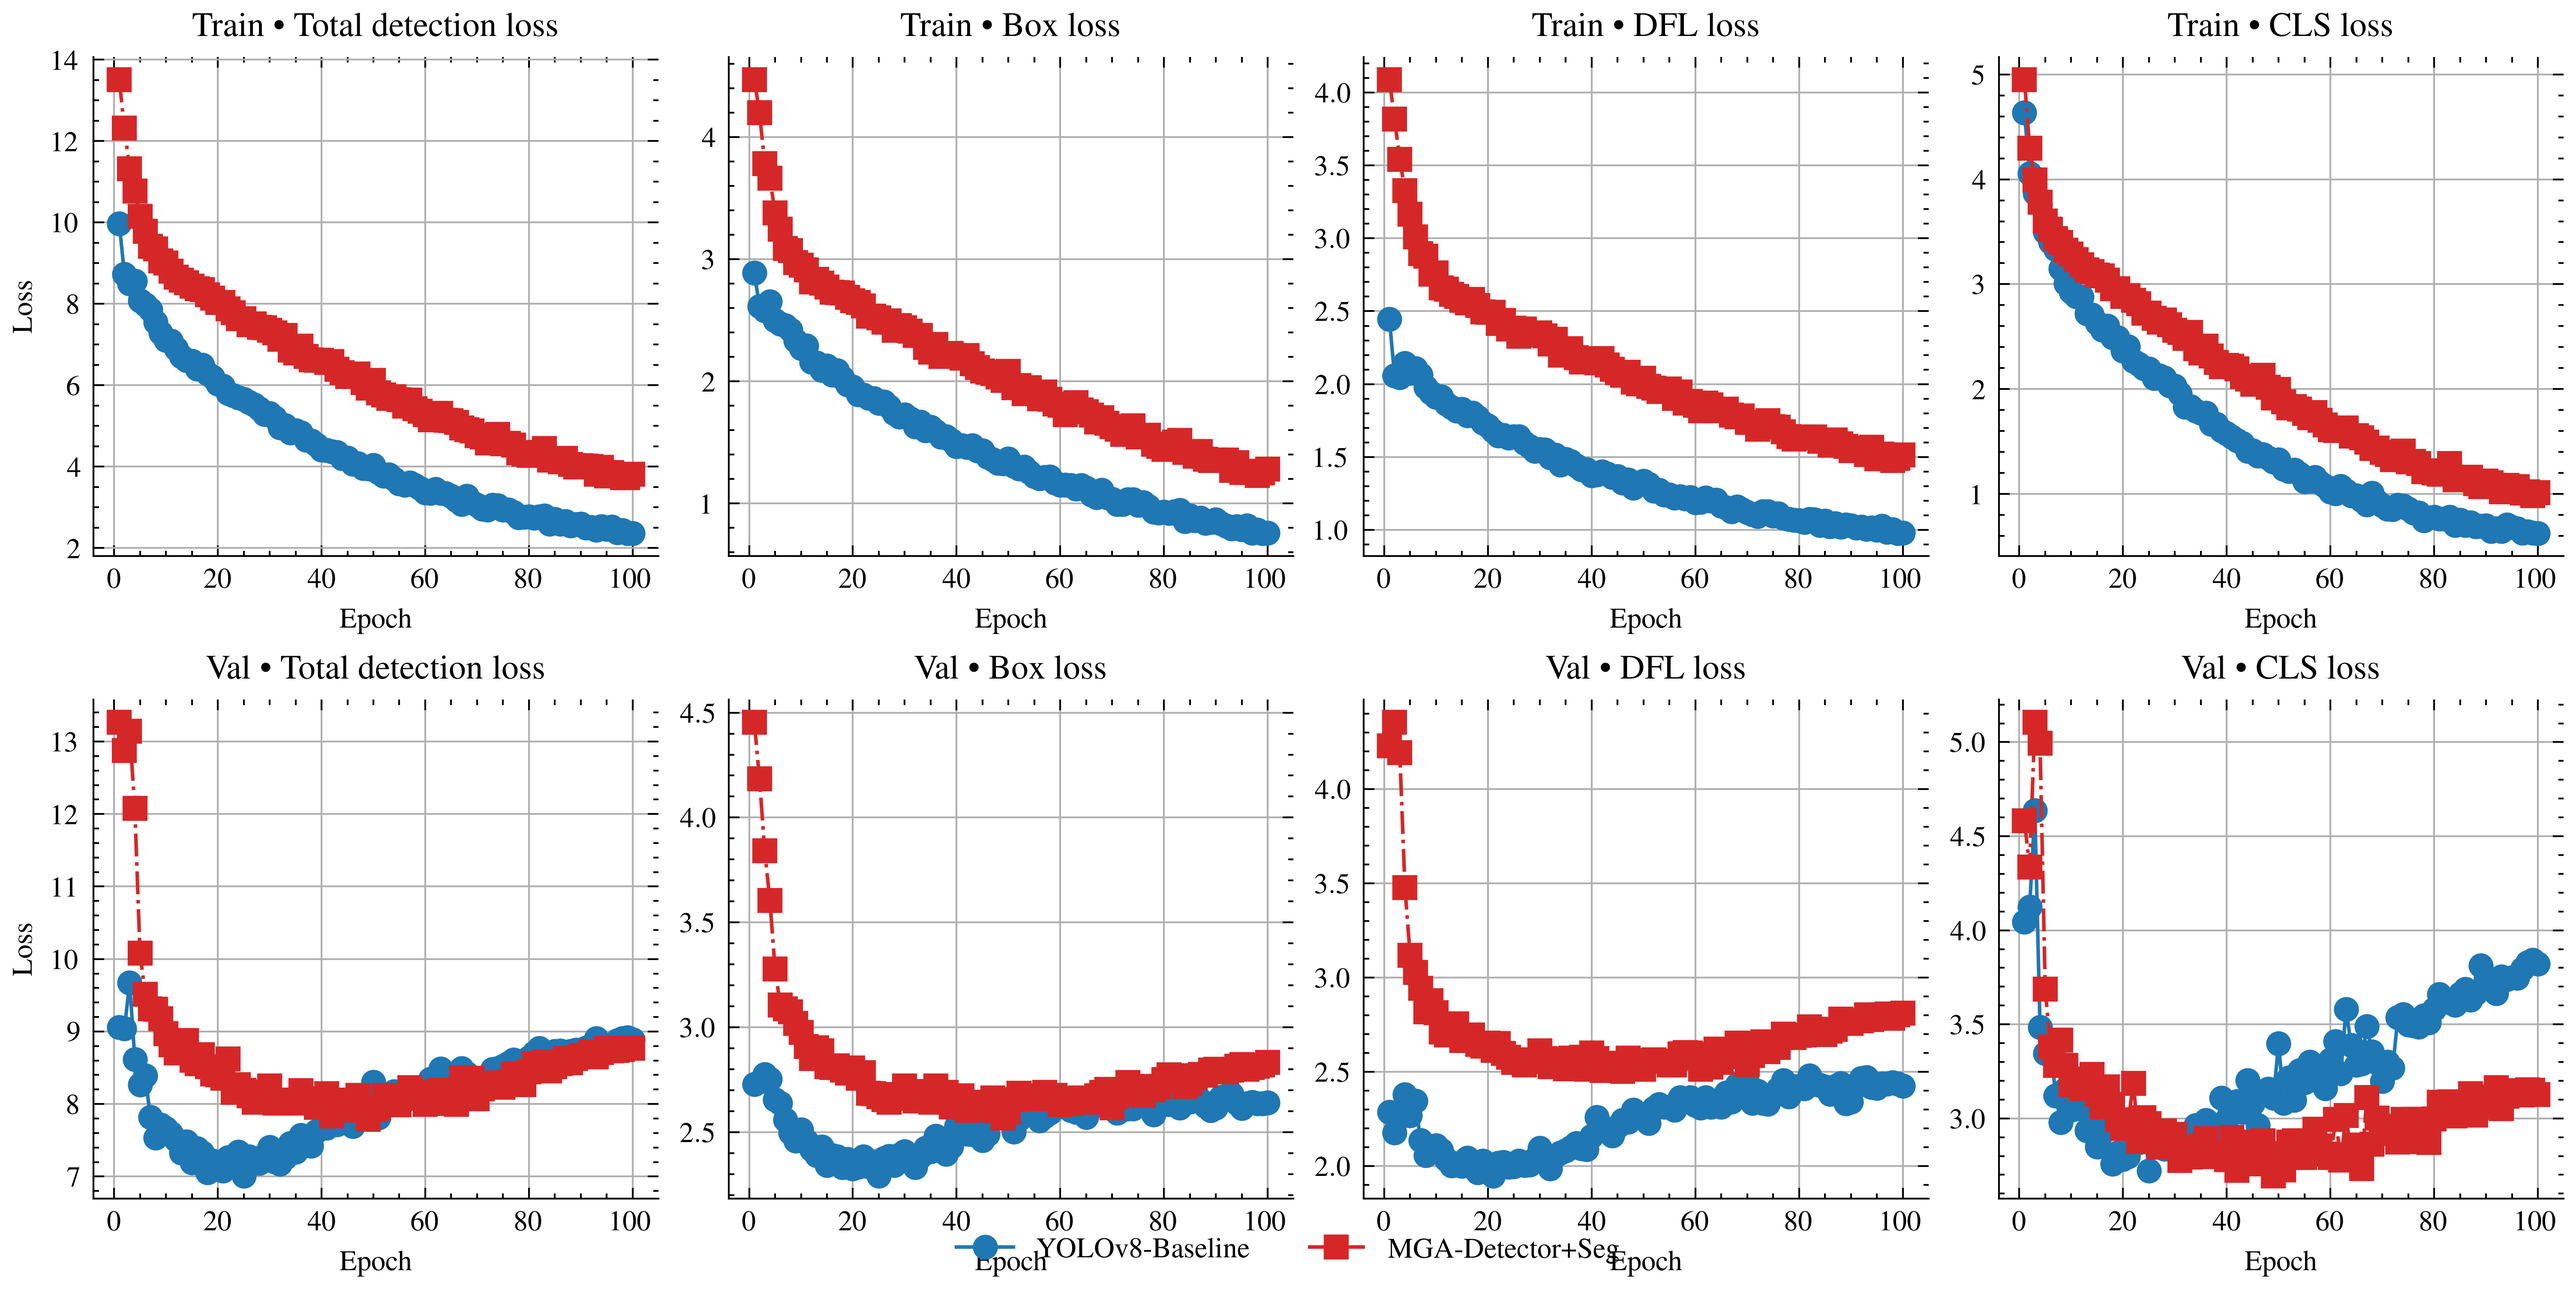
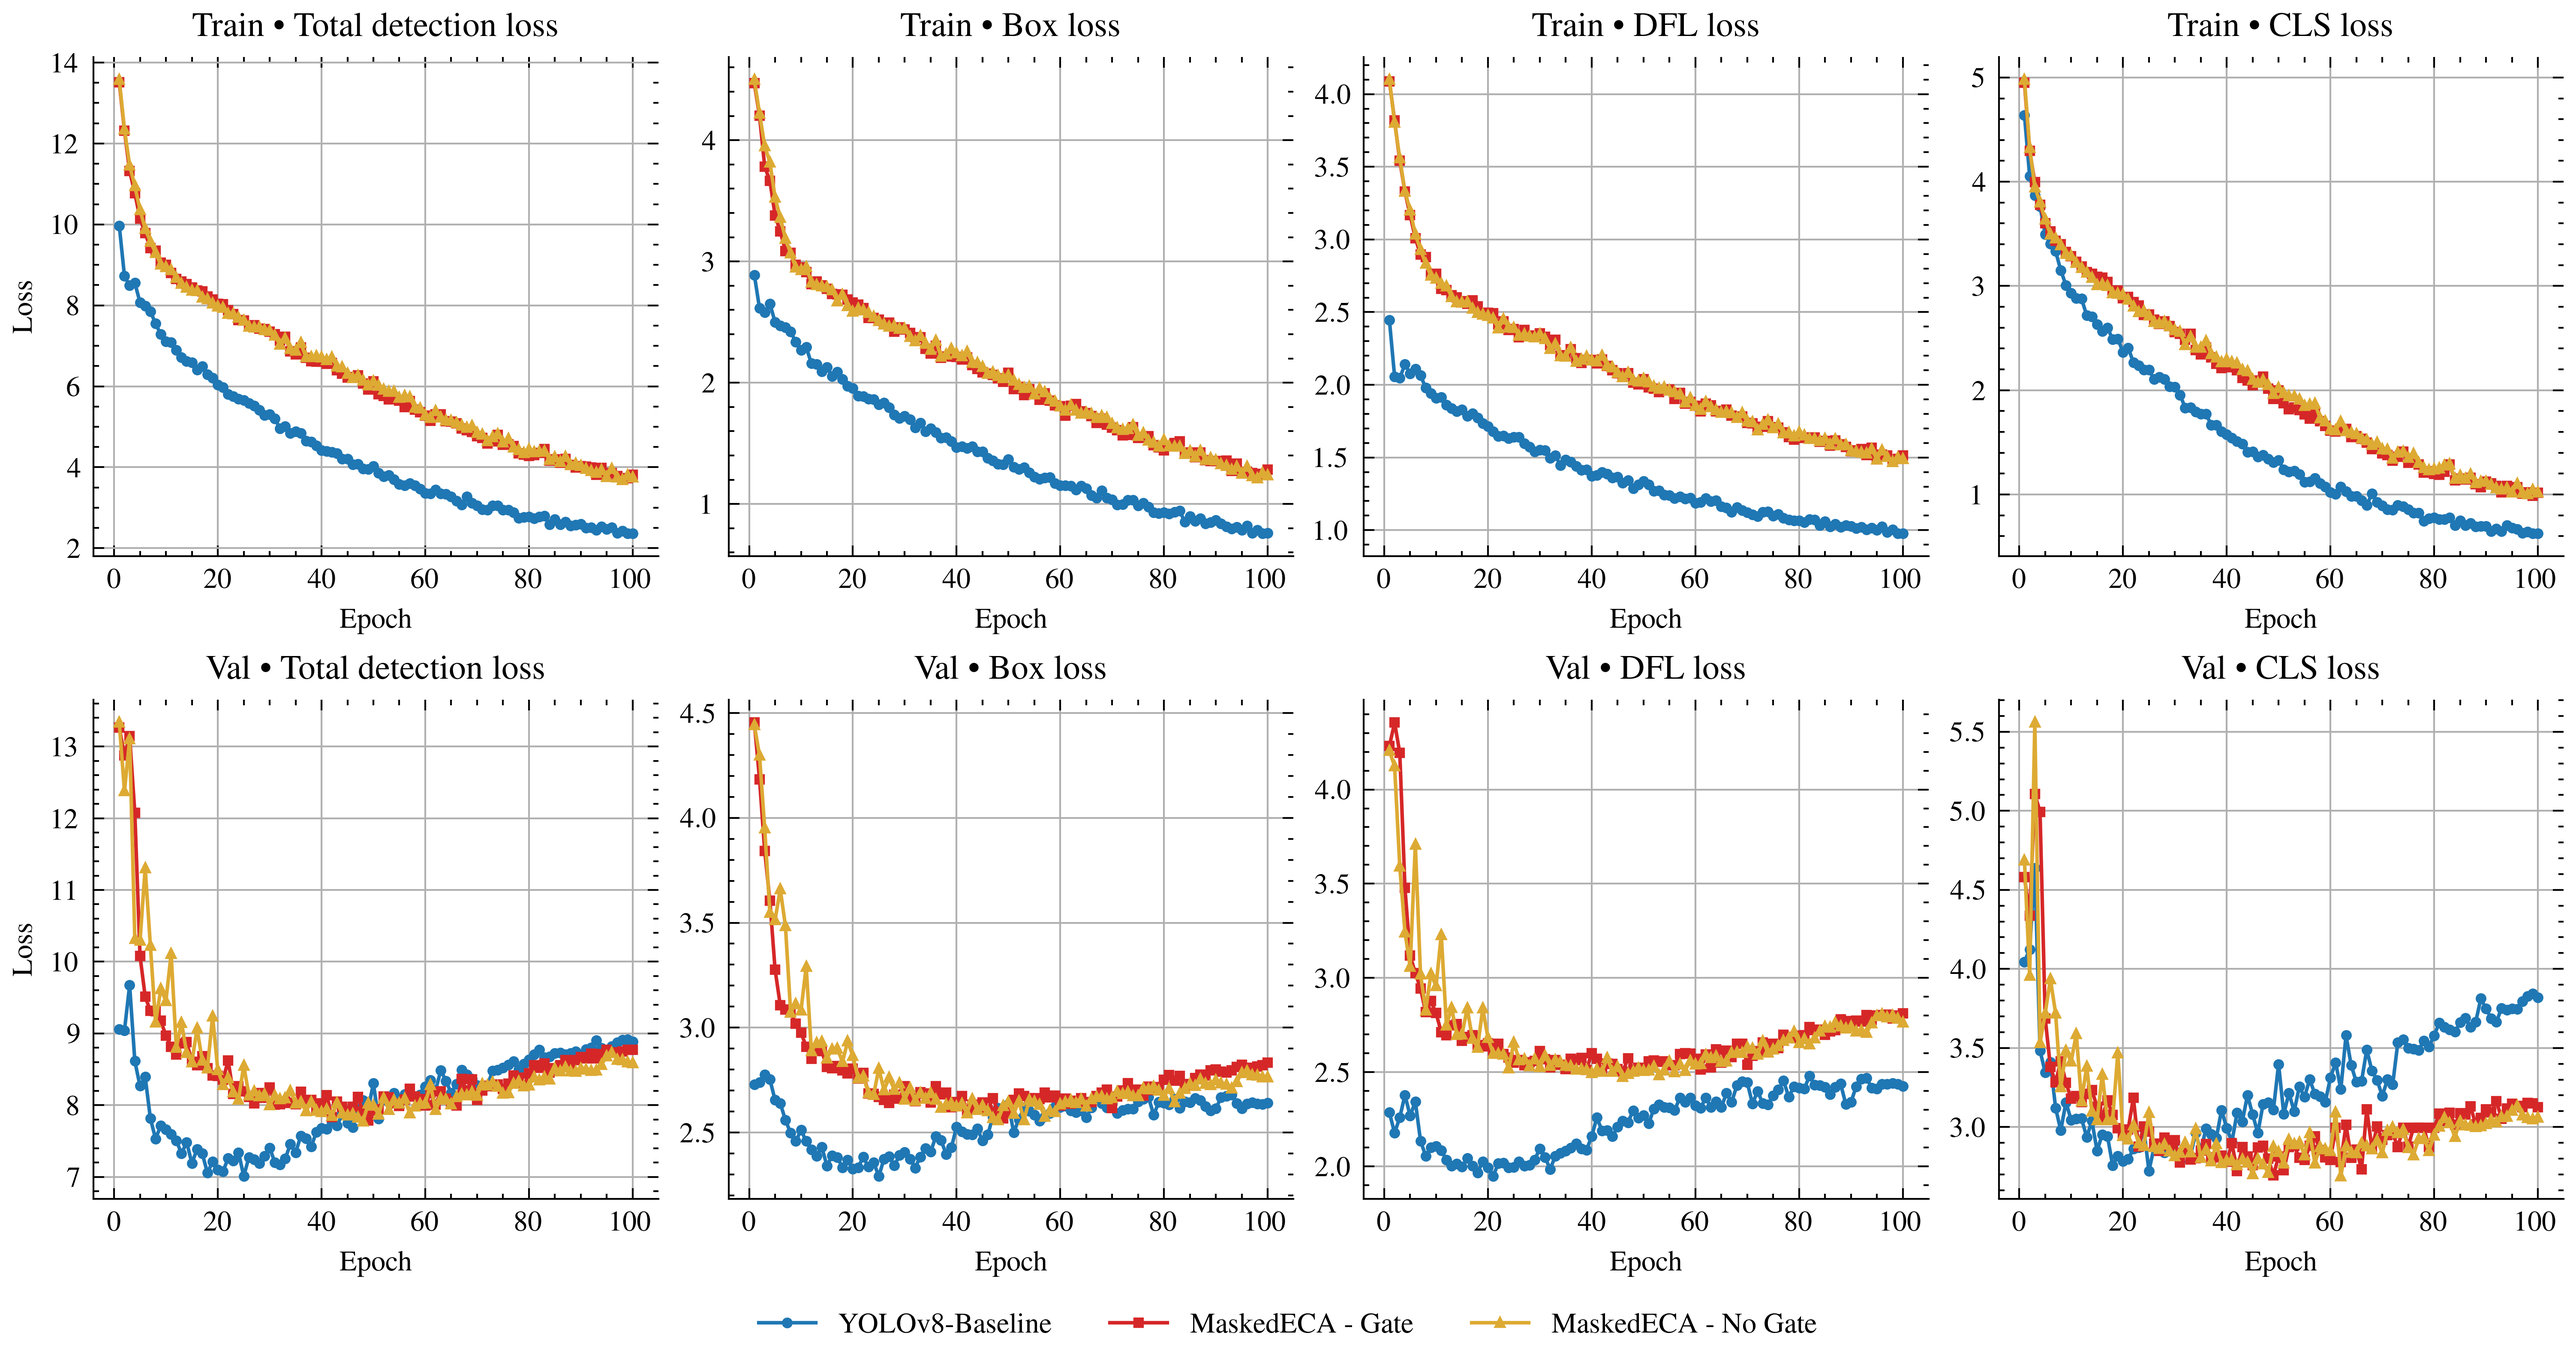
Modify plots

diff --git a/mga_yolo/utils/plotting/model_comparison.py b/mga_yolo/utils/plotting/model_comparison.py
@@ -78,6 +78,7 @@ class StyleConfig:
     linestyle: Optional[str] = None
     linewidth: Optional[float] = None
     marker: Optional[str] = None
+    markersize: Optional[float] = None
 
     def to_matplotlib_kwargs(self) -> Dict[str, object]:
         """Convert to matplotlib.plot kwargs, omitting None values."""
@@ -90,6 +91,8 @@ class StyleConfig:
             out['linewidth'] = self.linewidth
         if self.marker is not None:
             out['marker'] = self.marker
+        if self.markersize is not None:
+            out['markersize'] = self.markersize
         return out
 
 
@@ -136,6 +139,7 @@ def _parse_series_mapping(series_id: str, payload: Mapping) -> DataSeriesConfig:
         linestyle=style_raw.get('linestyle'),
         linewidth=style_raw.get('linewidth'),
         marker=style_raw.get('marker'),
+        markersize=style_raw.get('markersize'),
     )
 
     input_paths = [Path(str(p)).expanduser() for p in inputs]
@@ -382,7 +386,7 @@ def fig_detection(series_cfgs: List[DataSeriesConfig],
     # Single legend outside
     handles, labels = axes[0, 0].get_legend_handles_labels()
     if handles:
-        fig.legend(handles, labels, loc="lower center", ncol=min(4, len(labels)))
+        fig.legend(handles, labels, loc="lower center", ncol=min(4, len(labels)), bbox_to_anchor=(0.5, -0.06))
     return fig
 
 
@@ -480,7 +484,7 @@ def fig_segmentation(series_cfgs: List[DataSeriesConfig],
     # Legend
     handles, labels = axes[0, 0].get_legend_handles_labels()
     if handles:
-        fig.legend(handles, labels, loc="lower center", ncol=min(4, len(labels)))
+        fig.legend(handles, labels, loc="lower center", ncol=min(4, len(labels)), bbox_to_anchor=(0.5, -0.04))
     return fig
 
 
@@ -514,7 +518,7 @@ def fig_performance(series_cfgs: List[DataSeriesConfig],
 
     handles, labels = axes[0].get_legend_handles_labels()
     if handles:
-        fig.legend(handles, labels, loc="lower center", ncol=min(4, len(labels)))
+        fig.legend(handles, labels, loc="lower center", ncol=min(4, len(labels)), bbox_to_anchor=(0.5, -0.1))
     return fig
 
 
